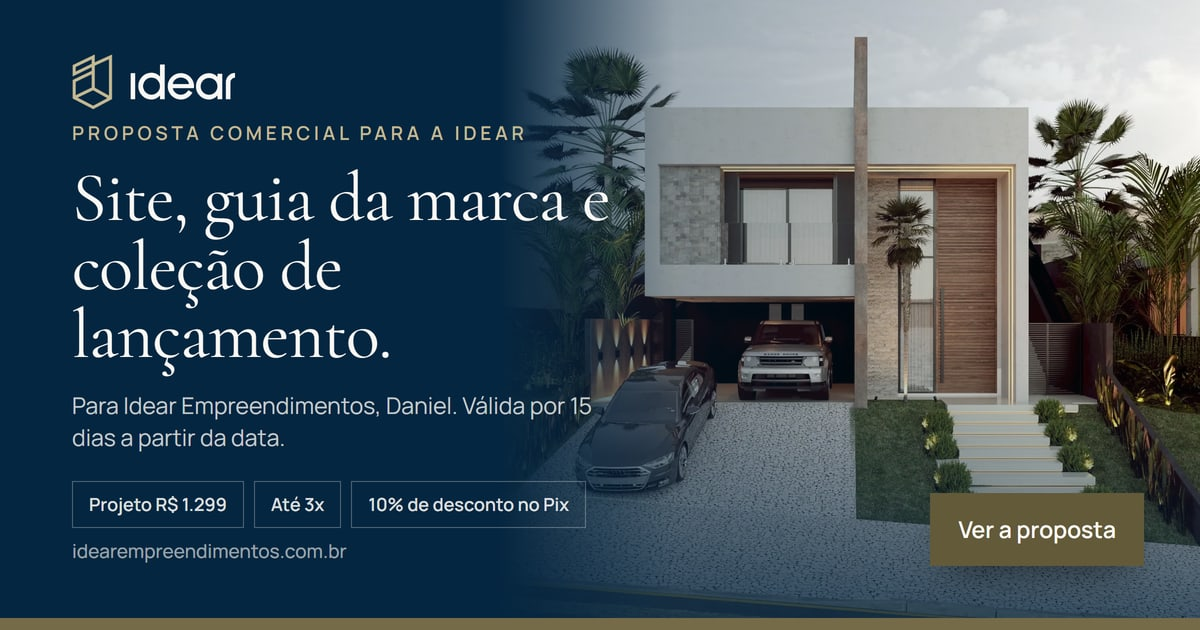
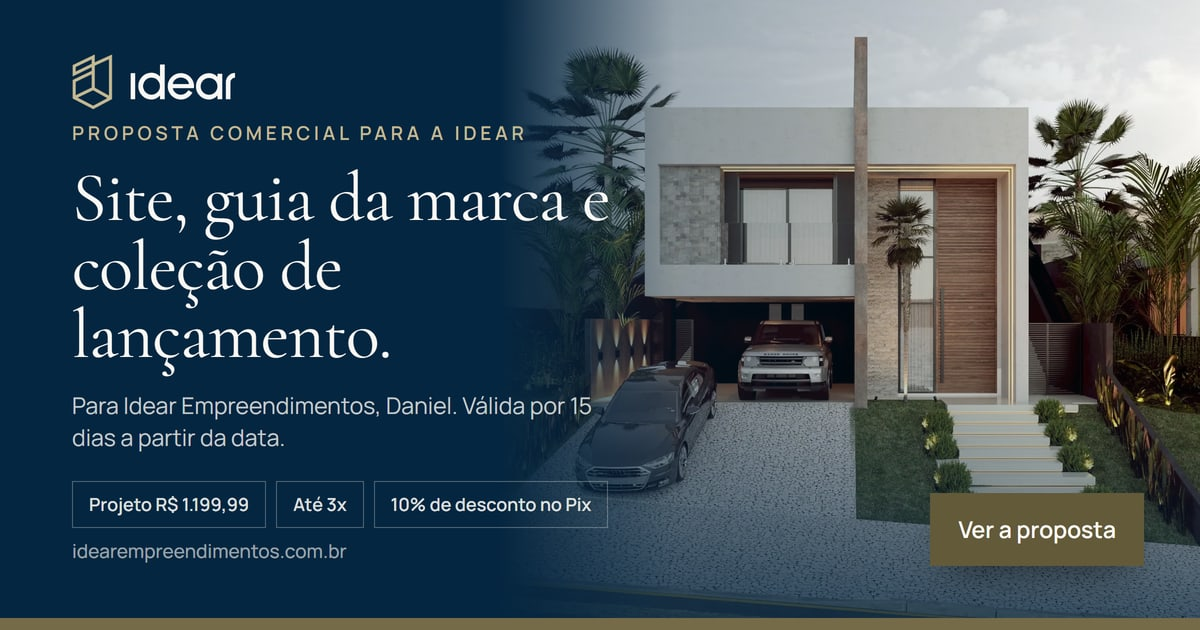
Proposta passa a R$ 1.199,99
- Projeto em até 3x (R$ 400,00, R$ 400,00 e R$ 399,99) ou R$ 1.079,99 no Pix
- Itens: site R$ 649,99, guia R$ 350, coleção R$ 200
- Capa de link e textos alternativos com o novo valor

Changed region(s): [[0.1542, 0.7841, 0.4933, 0.8143]]

diff --git a/content/orcamento.ts b/content/orcamento.ts
@@ -17,13 +17,13 @@ export const orcamento = {
     whatsapp: "5518997307852",
     whatsappRotulo: "(18) 99730-7852",
   },
-  total: "R$ 1.299",
+  total: "R$ 1.199,99",
   /** formas de pagamento do projeto, em uma linha (topo da página e capa de link) */
-  pagamentoCurto: "em até 3x de R$ 433 ou R$ 1.169,10 no Pix",
+  pagamentoCurto: "em até 3x ou R$ 1.079,99 no Pix",
   manutencao: "R$ 150/mês",
 
   apresentacao: [
-    "Proposta para a Idear Empreendimentos: site institucional sob medida, guia da marca e a coleção de 39 posts de lançamento por R$ 1.299, em até 3x ou com 10% de desconto no Pix, mais a manutenção do site por R$ 150/mês.",
+    "Proposta para a Idear Empreendimentos: site institucional sob medida, guia da marca e a coleção de 39 posts de lançamento por R$ 1.199,99, em até 3x ou com 10% de desconto no Pix, mais a manutenção do site por R$ 150/mês.",
     "O objetivo é um só: quem procura casa de alto padrão em Itatiba precisa conhecer a Idear, confiar em quem constrói e agendar uma visita. Tudo nesta proposta serve a esse caminho.",
   ],
 
@@ -115,20 +115,20 @@ export const orcamento = {
 
   investimento: {
     texto:
-      "O projeto sai por R$ 1.299: site institucional, guia da marca e coleção de lançamento, em até 3x ou com 10% de desconto no Pix. A manutenção do site é opcional, por R$ 150/mês.",
+      "O projeto sai por R$ 1.199,99: site institucional, guia da marca e coleção de lançamento, em até 3x ou com 10% de desconto no Pix. A manutenção do site é opcional, por R$ 150/mês.",
     itens: [
-      ["Site institucional", "Home da Idear, página da casa à venda, 404, vídeo de abertura, SEO, capas de compartilhamento e publicação", "R$ 699"],
-      ["Guia da marca", "Paleta, tipografia, regras do logo, tom de voz, regras de imagem e página do guia", "R$ 400"],
+      ["Site institucional", "Home da Idear, página da casa à venda, 404, vídeo de abertura, SEO, capas de compartilhamento e publicação", "R$ 649,99"],
+      ["Guia da marca", "Paleta, tipografia, regras do logo, tom de voz, regras de imagem e página do guia", "R$ 350"],
       ["Coleção de lançamento", "12 posts, carrossel de 6 slides, 13 stories e 8 capas de destaque", "R$ 200"],
     ] as [string, string, string][],
-    totalLinha: ["Projeto completo", "As três frentes acima", "R$ 1.299"] as [string, string, string],
+    totalLinha: ["Projeto completo", "As três frentes acima", "R$ 1.199,99"] as [string, string, string],
     mensalLinha: ["Manutenção mensal (opcional)", "Atualizações, backup, pequenos ajustes e troca da casa à venda", "R$ 150/mês"] as [string, string, string],
     observacao: "Valores pensados para fechar o projeto agora, abaixo da média de mercado para o mesmo conjunto de serviços.",
     manutencao:
       "Manutenção mensal (opcional, após a entrega): R$ 150/mês. Inclui atualizações, backup, troca de fotos, textos e valores, pequenos ajustes e a troca da casa à venda quando a próxima for lançada. Social media (criação de posts recorrentes, publicação e gestão do perfil) não faz parte deste orçamento.",
     pagamento: [
-      "Projeto: em até 3x de R$ 433, sendo a primeira na aprovação e a última na entrega final.",
-      "À vista no Pix: 10% de desconto no projeto, R$ 1.169,10.",
+      "Projeto: em até 3x (R$ 400,00, R$ 400,00 e R$ 399,99), sendo a primeira na aprovação e a última na entrega final.",
+      "À vista no Pix: 10% de desconto no projeto, R$ 1.079,99.",
       "Manutenção: paga todo mês, a partir da entrega do projeto.",
     ],
   },
